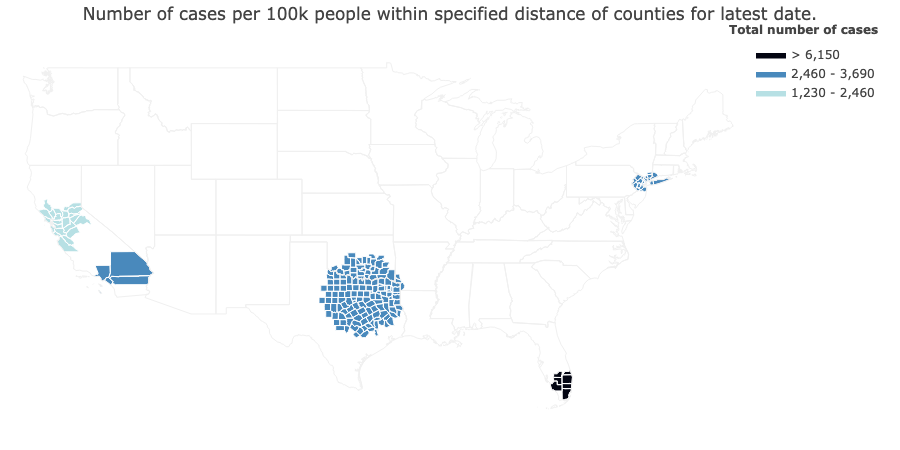
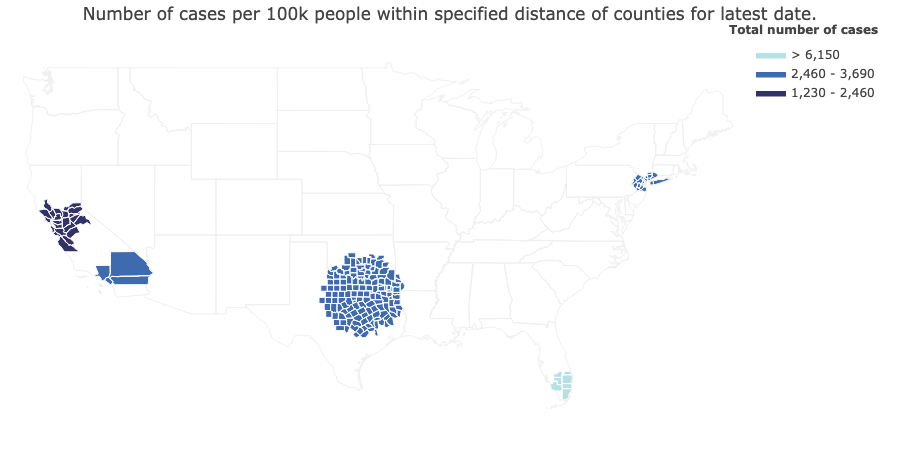
Minor changes to color selections and example outputs.

diff --git a/src/plotting.py b/src/plotting.py
@@ -21,9 +21,8 @@ def plot_results(results: list, stat: str,
                  target_date: date, save_path: str) -> None:
 
     # Will use 5 bins and this color scheme.
-    colorscale = ["#b7e0e4", "#b7e0e4", "#4989bc",
-                  "#3d4b94", "#1d1d3b", "#030512"]
-                  
+    colorscale = ["#030512", "#323268", "#3e6ab0",
+                  "#60a7c7", "#85c5d3", "#b7e0e4"]
 
     # What will ultimatedly be plotted: fips for each county in each range,
     # and the values (e.g. total cases in region).
